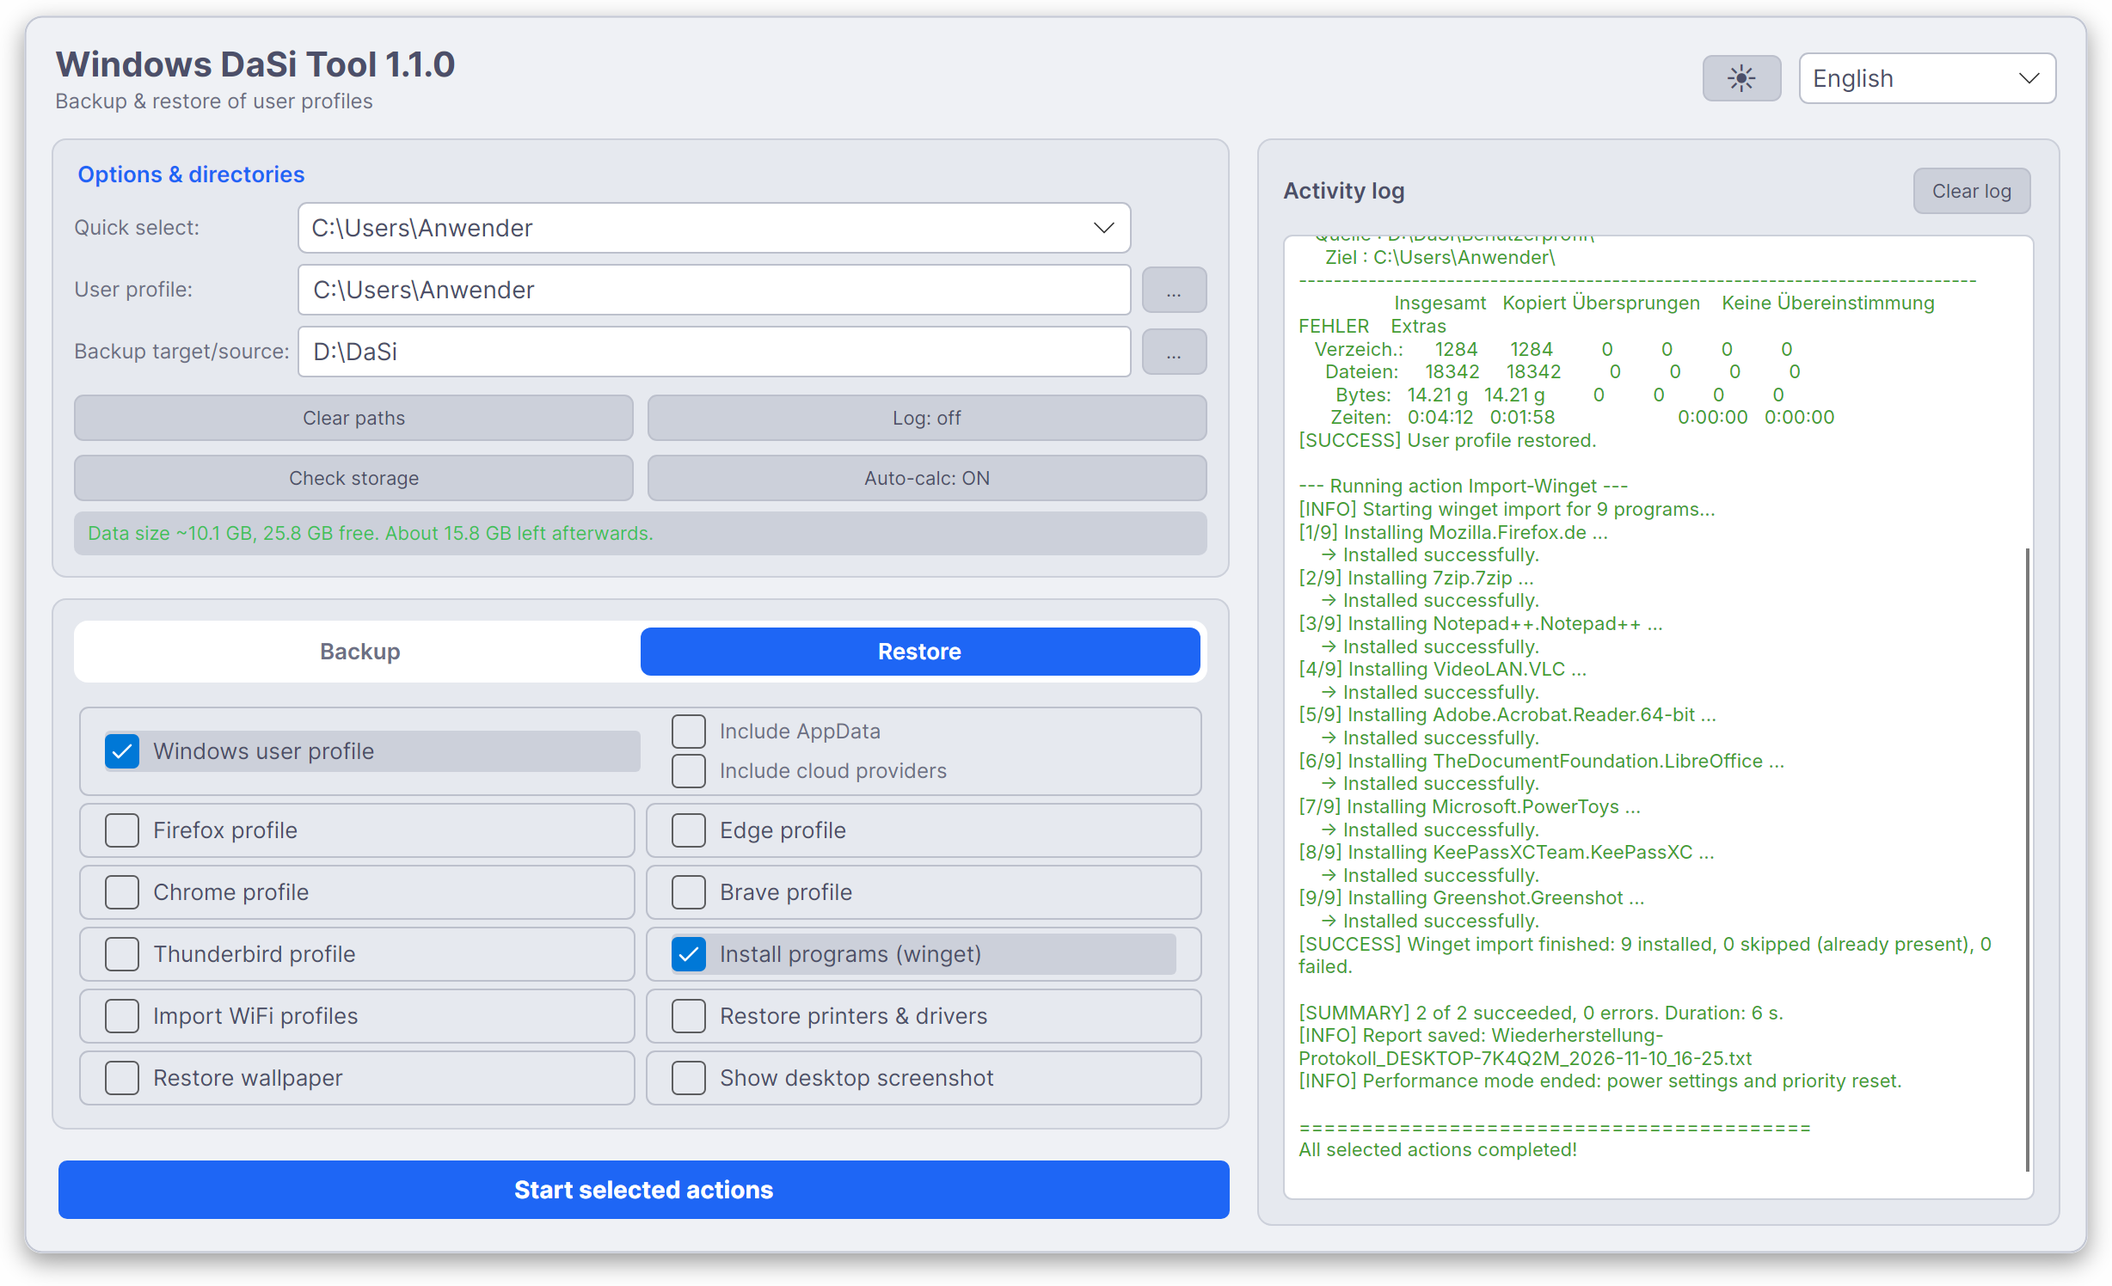
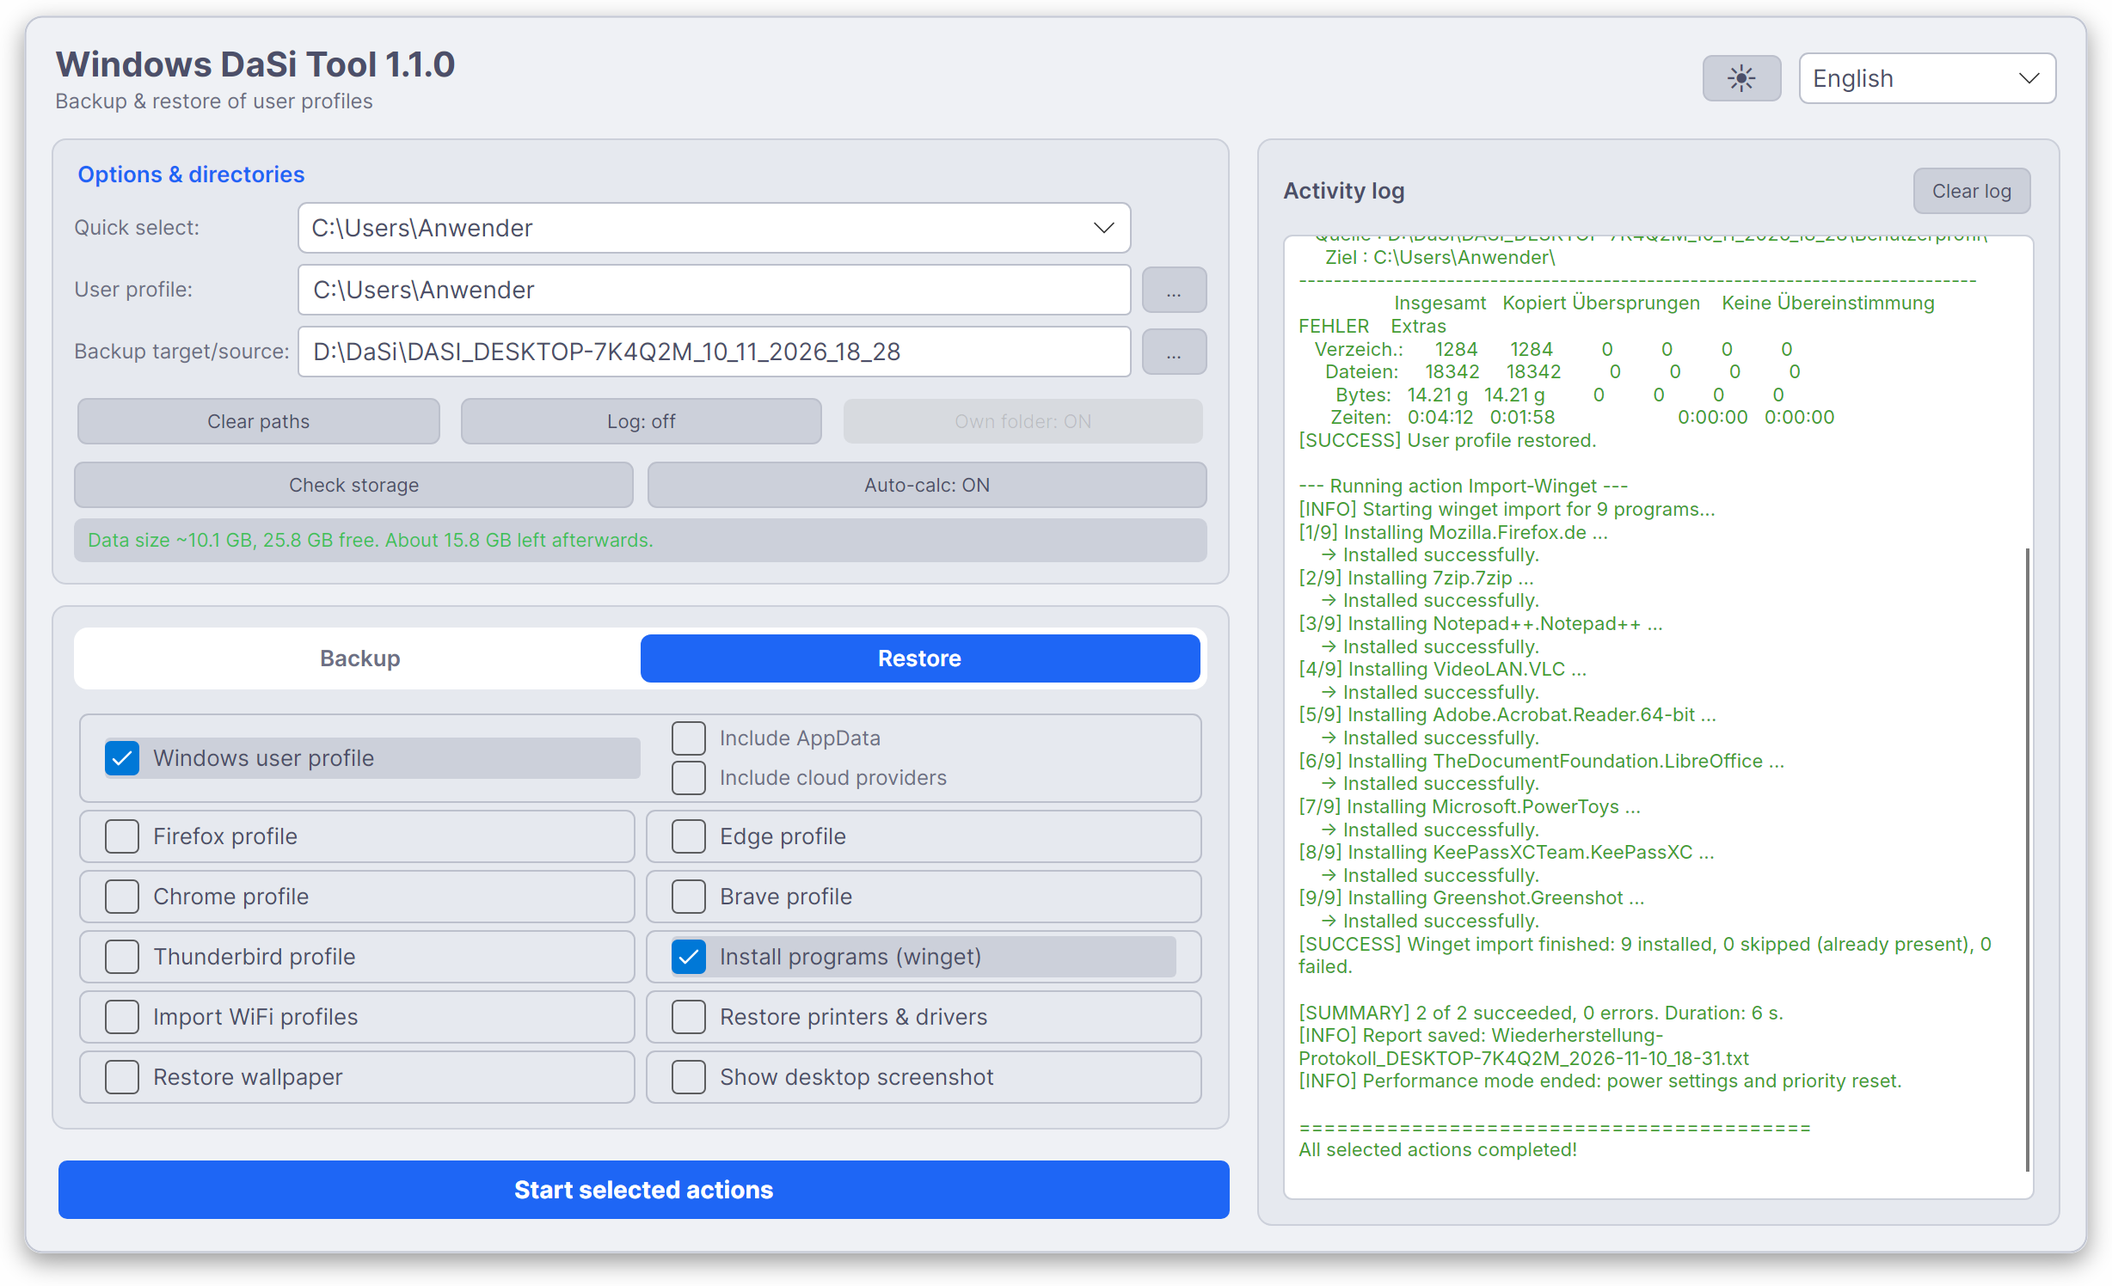
Neue Option: eigener Ordner je Sicherung
Als Ziel genuegt das Laufwerk: Aus "G:\" wird beim Start
"G:\DASI_<Rechnername>_TT_MM_JJJJ_HH_MM". Mehrere Rechner und Staende
liegen so nebeneinander, statt sich zu ueberschreiben - das Profil wird
mit /MIR gespiegelt, eine zweite Sicherung in denselben Ordner loeschte,
was die erste dort hinterlassen hat.

- Schalter "Eigener Ordner" (Vorgabe: an), mit Tooltip, der am echten
  Ziel zeigt, wo die naechste Sicherung landet. Die Schalterleiste hat
  oben jetzt drei gleich breite Knoepfe (ColumnSpacing), unten zwei -
  dieselbe Hoehe, kein Rollbalken.
- Angelegt wird erst beim Start, mit dessen Uhrzeit. Das Feld zeigt
  weiter das gewaehlte Ziel, ein zweiter Lauf legt daneben einen neuen
  Ordner an und verschachtelt nichts.
- Ist das Ziel schon ein DASI_-Ordner, wird nichts verschachtelt.
- Winget-Liste und Protokolldatei landen im DASI-Ordner; vorher nahmen
  beide das gewaehlte Ziel direkt.
- Beim Wiederherstellen ist der Schalter gesperrt: Dort wird eine
  vorhandene Sicherung gewaehlt.
- Die Regel steht pruefbar in BackupTarget (Name, Zeichen, Verschachtelung).

Geprueft: 108 Pruefungen (11 neue). GUI live: an/aus, Ziel schon DASI,
zweiter Lauf in derselben Sitzung, Wiederherstellen (18/18); bisherige
Funktionstests 33/33 und winget 33/33; 0 px Ueberlauf.

Claude-Session: https://claude.ai/code/session_0196PaXCKSmKiwGSNr3Nwqvz

diff --git a/ViewModels/MainWindowViewModel.cs b/ViewModels/MainWindowViewModel.cs
@@ -42,7 +42,11 @@ public partial class MainWindowViewModel : ObservableObject
 
     // Die Zusatzoptionen zum Benutzerprofil haengen ebenfalls daran und muessen
     // mitgesperrt werden, solange eine Aktion laeuft.
-    partial void OnUiEnabledChanged(bool value) => OnPropertyChanged(nameof(UserOptionsEnabled));
+    partial void OnUiEnabledChanged(bool value)
+    {
+        OnPropertyChanged(nameof(UserOptionsEnabled));
+        OnPropertyChanged(nameof(OwnFolderToggleEnabled));
+    }
 
     /// <summary>
     /// Laeuft gerade eine Aktion aus der Warteschlange? Bewusst getrennt von
@@ -127,6 +131,49 @@ public partial class MainWindowViewModel : ObservableObject
     [RelayCommand]
     private void ToggleAutoStorage() => AutoStorageCheck = !AutoStorageCheck;
 
+    // ---- Eigener Sicherungsordner (abschaltbar, Vorgabe: an) ----
+    // Beim Sichern entsteht unter dem gewaehlten Ziel ein eigener Ordner je
+    // Lauf: G:\ -> G:\DASI_<Rechner>_TT_MM_JJJJ_HH_MM. Beim Wiederherstellen
+    // wirkt der Schalter nicht - dort wird ja eine vorhandene Sicherung gewaehlt.
+    [ObservableProperty] private bool _ownBackupFolder = true;
+
+    public string OwnFolderLabel => OwnBackupFolder
+        ? Tr("Eigener Ordner: AN", "Own folder: ON")
+        : Tr("Eigener Ordner: AUS", "Own folder: OFF");
+
+    /// <summary>Zeigt am Beispiel, wo die naechste Sicherung landet.</summary>
+    public string OwnFolderTip
+    {
+        get
+        {
+            var basis = string.IsNullOrWhiteSpace(BackupPath) ? @"G:\" : BackupPath;
+            var beispiel = BackupTarget.Resolve(basis, true, Environment.MachineName, DateTime.Now);
+            return OwnBackupFolder
+                ? Tr($"Beim Sichern wird ein eigener Ordner angelegt, z. B.:\n{beispiel}\n\nAbschalten, um direkt in das gewählte Ziel zu sichern.",
+                     $"When backing up, a separate folder is created, e.g.:\n{beispiel}\n\nTurn off to back up directly into the chosen target.")
+                : Tr($"Gesichert wird direkt in das gewählte Ziel.\n\nEinschalten, um je Sicherung einen eigenen Ordner anzulegen, z. B.:\n{beispiel}",
+                     $"The backup goes directly into the chosen target.\n\nTurn on to create a separate folder per backup, e.g.:\n{beispiel}");
+        }
+    }
+
+    public bool OwnFolderToggleEnabled => UiEnabled && !IsRestoreMode;
+
+    partial void OnOwnBackupFolderChanged(bool value)
+    {
+        OnPropertyChanged(nameof(OwnFolderLabel));
+        OnPropertyChanged(nameof(OwnFolderTip));
+    }
+
+    [RelayCommand]
+    private void ToggleOwnFolder() => OwnBackupFolder = !OwnBackupFolder;
+
+    /// <summary>
+    /// Ziel des laufenden Vorgangs. Beim Sichern mit eigenem Ordner ist das
+    /// der neu angelegte DASI-Ordner, sonst das gewaehlte Ziel. Winget-Export
+    /// und Protokolldatei muessen dorthin - nicht ins gewaehlte Ziel darueber.
+    /// </summary>
+    private string _laufZiel = "";
+
     private System.Threading.CancellationTokenSource? _autoStorageCts;
 
     /// <summary>
@@ -160,6 +207,7 @@ public partial class MainWindowViewModel : ObservableObject
 
     partial void OnBackupPathChanged(string value)
     {
+        OnPropertyChanged(nameof(OwnFolderTip));
         // Freien Platz am Ziellaufwerk sofort anzeigen (leichtgewichtig).
         if (string.IsNullOrWhiteSpace(value))
         {
@@ -348,6 +396,7 @@ public partial class MainWindowViewModel : ObservableObject
         OnPropertyChanged(nameof(TgWallpaper));
         OnPropertyChanged(nameof(TgDesktopShot));
         OnPropertyChanged(nameof(ModeTitle));
+        OnPropertyChanged(nameof(OwnFolderToggleEnabled));
         ScheduleAutoStorageCheck();
     }
 
@@ -974,7 +1023,30 @@ public partial class MainWindowViewModel : ObservableObject
         // Die Zusatzoptionen gelten nur zusammen mit dem Benutzerprofil.
         _backup.IncludeAppData = SelUser && SelUserAppData;
         _backup.IncludeCloud = SelUser && SelUserCloud;
-        _backup.BackupPath = BackupPath;
+
+        // Eigener Ordner: erst hier anlegen, mit der Uhrzeit des Starts - nicht
+        // schon beim Waehlen des Ziels. Sonst truege der Ordner die Zeit, zu der
+        // irgendwann das Laufwerk gewaehlt wurde.
+        _laufZiel = IsRestoreMode
+            ? BackupPath
+            : BackupTarget.Resolve(BackupPath, OwnBackupFolder, Environment.MachineName, DateTime.Now);
+        if (!string.Equals(_laufZiel, BackupPath, StringComparison.OrdinalIgnoreCase))
+        {
+            try
+            {
+                Directory.CreateDirectory(_laufZiel);
+            }
+            catch (Exception ex)
+            {
+                await ShowInfo(Tr("Fehler", "Error"),
+                    Tr($"Der Sicherungsordner konnte nicht angelegt werden:\n{_laufZiel}\n\n{ex.Message}",
+                       $"The backup folder could not be created:\n{_laufZiel}\n\n{ex.Message}"));
+                return;
+            }
+            Log(Tr($"[INFO] Gesichert wird in einen eigenen Ordner: {_laufZiel}",
+                   $"[INFO] Backing up into a separate folder: {_laufZiel}"));
+        }
+        _backup.BackupPath = _laufZiel;
 
         UiEnabled = false;
         IsActionRunning = true;
@@ -1075,7 +1147,7 @@ public partial class MainWindowViewModel : ObservableObject
                     case "Backup-Chrome":      await _backup.BackupAppProfile("Chrome", @"AppData\Local\Google\Chrome\User Data", "chrome", _backup.ChromiumExcludes); break;
                     case "Backup-Brave":       await _backup.BackupAppProfile("Brave", @"AppData\Local\BraveSoftware\Brave-Browser\User Data", "brave", _backup.ChromiumExcludes); break;
                     case "Backup-Thunderbird": await _backup.BackupAppProfile("Thunderbird", @"AppData\Roaming\Thunderbird", "thunderbird"); break;
-                    case "Export-Winget":      await _winget.ExportAsync(BackupPath); break;
+                    case "Export-Winget":      await _winget.ExportAsync(_laufZiel); break;
                     case "Export-Wlan":        await _backup.ExportWlan(); break;
                     case "Export-Printer":     await _backup.ExportPrinters(); break;
                     case "Export-Wallpaper":   await _backup.ExportWallpaper(); break;
@@ -1146,7 +1218,7 @@ public partial class MainWindowViewModel : ObservableObject
         // Protokolldatei schreiben (nur wenn ein gueltiges Ziel existiert).
         try
         {
-            if (string.IsNullOrWhiteSpace(BackupPath) || !Directory.Exists(BackupPath)) return;
+            if (string.IsNullOrWhiteSpace(_laufZiel) || !Directory.Exists(_laufZiel)) return;
 
             var modeStr = restore ? Tr("Wiederherstellung", "Restore") : Tr("Sicherung", "Backup");
             // Computername in den Dateinamen aufnehmen (ungueltige Zeichen entfernen).
@@ -1154,7 +1226,7 @@ public partial class MainWindowViewModel : ObservableObject
             foreach (var ch in Path.GetInvalidFileNameChars())
                 pcName = pcName.Replace(ch, '_');
             var fileName = $"{(restore ? "Wiederherstellung" : "Sicherung")}-Protokoll_{pcName}_{start:yyyy-MM-dd_HH-mm}.txt";
-            var path = Path.Combine(BackupPath, fileName);
+            var path = Path.Combine(_laufZiel, fileName);
 
             var sb = new System.Text.StringBuilder();
             sb.AppendLine("Windows DaSi Tool - " + Tr("Protokoll", "Report"));
@@ -1164,7 +1236,7 @@ public partial class MainWindowViewModel : ObservableObject
             sb.AppendLine($"{Tr("Datum", "Date")}: {start:yyyy-MM-dd HH:mm:ss}");
             sb.AppendLine($"{Tr("Dauer", "Duration")}: {durStr}");
             sb.AppendLine($"{Tr("Benutzerprofil", "User profile")}: {SourcePath}");
-            sb.AppendLine($"{Tr("Backup-Ziel/-Quelle", "Backup target/source")}: {BackupPath}");
+            sb.AppendLine($"{Tr("Backup-Ziel/-Quelle", "Backup target/source")}: {_laufZiel}");
             sb.AppendLine($"{Tr("Version", "Version")}: {VersionString}");
             sb.AppendLine("----------------------------------------");
             sb.AppendLine($"{Tr("Ergebnis", "Result")}: {okCount}/{results.Count} {Tr("erfolgreich", "succeeded")}, {failCount} {Tr("Fehler", "errors")}");

diff --git a/Services/BackupTarget.cs b/Services/BackupTarget.cs
@@ -1,0 +1,60 @@
+using System;
+using System.Globalization;
+using System.IO;
+
+namespace WindowsDaSiTool.Services;
+
+/// <summary>
+/// Der eigene Sicherungsordner: Wer als Ziel nur "G:\" angibt, bekommt
+/// darunter einen Ordner je Sicherung - "G:\DASI_DESKTOP-7K4Q2M_10_11_2026_18_45".
+///
+/// So liegen mehrere Rechner und mehrere Staende sauber nebeneinander, statt
+/// sich im Wurzelverzeichnis gegenseitig zu ueberschreiben: Das Profil wird
+/// mit /MIR gespiegelt, eine zweite Sicherung in denselben Ordner loeschte
+/// alles, was der erste Rechner dort hinterlassen hat.
+///
+/// Ohne Abhaengigkeiten, damit sich die Regel pruefen laesst.
+/// </summary>
+public static class BackupTarget
+{
+    /// <summary>Anfang jedes Ordners, den das Tool selbst anlegt.</summary>
+    public const string Prefix = "DASI_";
+
+    /// <summary>
+    /// "DASI_&lt;Rechnername&gt;_TT_MM_JJJJ_HH_MM". Zeichen, die in einem
+    /// Ordnernamen nicht erlaubt sind, werden zu "_".
+    /// </summary>
+    public static string FolderName(string machineName, DateTime when)
+    {
+        var pc = string.IsNullOrWhiteSpace(machineName) ? "PC" : machineName.Trim();
+        foreach (var ch in Path.GetInvalidFileNameChars()) pc = pc.Replace(ch, '_');
+        // Zusaetzlich die unter Windows verbotenen Zeichen - Path liefert unter
+        // Linux nur '/' und '\0', die Regel soll aber ueberall gleich wirken.
+        foreach (var ch in "\\/:*?\"<>|") pc = pc.Replace(ch, '_');
+        return Prefix + pc + "_" + when.ToString("dd_MM_yyyy_HH_mm", CultureInfo.InvariantCulture);
+    }
+
+    /// <summary>
+    /// true, wenn der Ordner selbst schon ein DASI-Ordner ist. Dann wird nichts
+    /// verschachtelt: Wer "G:\DASI_PC_10_11_2026_18_45" waehlt, will genau dorthin.
+    /// </summary>
+    public static bool IsOwnFolder(string path)
+    {
+        if (string.IsNullOrWhiteSpace(path)) return false;
+        var name = path.TrimEnd('\\', '/');
+        var schnitt = name.LastIndexOfAny(new[] { '\\', '/' });
+        if (schnitt >= 0) name = name[(schnitt + 1)..];
+        return name.StartsWith(Prefix, StringComparison.OrdinalIgnoreCase);
+    }
+
+    /// <summary>
+    /// Das tatsaechliche Ziel einer Sicherung.
+    /// </summary>
+    /// <param name="basePath">Was der Benutzer gewaehlt hat, z. B. "G:\".</param>
+    /// <param name="enabled">Schalter "Eigener Ordner".</param>
+    public static string Resolve(string basePath, bool enabled, string machineName, DateTime when)
+    {
+        if (!enabled || string.IsNullOrWhiteSpace(basePath) || IsOwnFolder(basePath)) return basePath;
+        return Path.Combine(basePath, FolderName(machineName, when));
+    }
+}

diff --git a/tests/DaSiTests/Program.cs b/tests/DaSiTests/Program.cs
@@ -358,6 +358,35 @@ internal static class Program
         // ================================================================
         // Desktop-Screenshot: PNG schreiben, Profil vergleichen, Schwarzbild
         // ================================================================
+        Console.WriteLine("\n== Eigener Sicherungsordner ==");
+        var zeitpunkt = new DateTime(2026, 11, 10, 8, 5, 0);
+        Check("Name: DASI_<Rechner>_TT_MM_JJJJ_HH_MM, mit fuehrenden Nullen",
+            BackupTarget.FolderName("DESKTOP-7K4Q2M", zeitpunkt) == "DASI_DESKTOP-7K4Q2M_10_11_2026_08_05",
+            BackupTarget.FolderName("DESKTOP-7K4Q2M", zeitpunkt));
+        Check("unzulaessige Zeichen im Rechnernamen werden zu _",
+            BackupTarget.FolderName("PC:1/2*?", zeitpunkt) == "DASI_PC_1_2___10_11_2026_08_05",
+            BackupTarget.FolderName("PC:1/2*?", zeitpunkt));
+        Check("ohne Rechnernamen: PC",
+            BackupTarget.FolderName("  ", zeitpunkt) == "DASI_PC_10_11_2026_08_05");
+        Check("24-Stunden-Format (18 Uhr, nicht 6)",
+            BackupTarget.FolderName("PC", new DateTime(2026, 11, 10, 18, 45, 0)).EndsWith("_10_11_2026_18_45"));
+
+        var laufwerk = Path.Combine(root, "G");
+        Check("eingeschaltet: Ordner unter dem gewaehlten Ziel",
+            BackupTarget.Resolve(laufwerk, true, "PC", zeitpunkt) == Path.Combine(laufwerk, "DASI_PC_10_11_2026_08_05"));
+        Check("ausgeschaltet: direkt ins gewaehlte Ziel",
+            BackupTarget.Resolve(laufwerk, false, "PC", zeitpunkt) == laufwerk);
+        var schonDasi = Path.Combine(laufwerk, "DASI_ALTPC_01_10_2026_12_00");
+        Check("ist das Ziel schon ein DASI-Ordner, wird nichts verschachtelt",
+            BackupTarget.Resolve(schonDasi, true, "PC", zeitpunkt) == schonDasi);
+        Check("auch mit abschliessendem Trennzeichen und Kleinschreibung",
+            BackupTarget.IsOwnFolder(@"G:\dasi_pc_10_11_2026_08_05\") && BackupTarget.IsOwnFolder("/mnt/g/DASI_PC_x/"));
+        Check("Laufwerkswurzel ist kein DASI-Ordner",
+            !BackupTarget.IsOwnFolder(@"G:\") && !BackupTarget.IsOwnFolder(""));
+        Check("ein Ordner, der DASI nur enthaelt, zaehlt nicht",
+            !BackupTarget.IsOwnFolder(@"G:\Backup_DASI_alt"));
+        Check("leeres Ziel bleibt leer", BackupTarget.Resolve("", true, "PC", zeitpunkt) == "");
+
         Console.WriteLine("\n== PNG schreiben ==");
         Check("CRC-32 stimmt mit dem Normwert ueberein (\"123456789\" -> CBF43926)",
             PngWriter.Crc32("123456789"u8) == 0xCBF43926u, PngWriter.Crc32("123456789"u8).ToString("X8"));

diff --git a/README.md b/README.md
@@ -155,6 +155,22 @@ Beim **Wiederherstellen** wird gezielt ausgewählt, was installiert werden soll:
 <img src="docs/images/winget-auswahl.png" alt="Auswahldialog für die Winget-Wiederherstellung" width="460">
 </div>
 
+### Ein eigener Ordner je Sicherung
+
+Als Ziel genügt das Laufwerk: Wer `G:\` wählt, bekommt für jede Sicherung einen
+eigenen Ordner mit Rechnername und Zeitpunkt —
+
+```
+G:\DASI_DESKTOP-7K4Q2M_10_11_2026_18_45
+```
+
+So liegen mehrere Rechner und mehrere Stände sauber nebeneinander, statt sich im
+Wurzelverzeichnis gegenseitig zu überschreiben. Angelegt wird der Ordner erst beim
+Start, mit dessen Uhrzeit. Der Schalter **Eigener Ordner** (Vorgabe: an) lässt sich
+abschalten; dann geht die Sicherung direkt in das gewählte Ziel. Ist das gewählte Ziel
+selbst schon ein `DASI_…`-Ordner, wird nichts verschachtelt. Beim **Wiederherstellen**
+wirkt der Schalter nicht — dort wird der gewünschte `DASI_…`-Ordner als Quelle gewählt.
+
 ### Schnellauswahl der Benutzerprofile
 
 Alle echten Profile unter `C:\Users` stehen im Dropdown bereit. System- und
@@ -255,7 +271,8 @@ auf der Kommandozeile — steht in **[docs/VEROEFFENTLICHEN.md](docs/VEROEFFENTL
 1. Aktuelle `WindowsDaSiTool.exe` aus dem [Releases-Bereich](https://github.com/Tinnitus97/Windows.DaSi.Tool/releases) herunterladen.
 2. EXE starten und die UAC-Abfrage mit **Ja** bestätigen.
 3. Über die **Schnellauswahl** das Benutzerprofil wählen (oder per `...` manuell suchen).
-4. Das **Backup-Ziel** festlegen — ein Ordner auf einem NTFS-Laufwerk.
+4. Das **Backup-Ziel** festlegen — ein Ordner auf einem NTFS-Laufwerk. Mit *Eigener
+   Ordner: AN* genügt das Laufwerk (`G:\`); zum Wiederherstellen den `DASI_…`-Ordner wählen.
 5. Modus **Sichern** oder **Wiederherstellen** wählen und die gewünschten Punkte ankreuzen.
    *AppData* und *Cloud-Anbieter* nur bei Bedarf dazunehmen.
 6. Auf die **Speicherzeile** achten: Grün heißt, der Platz reicht.

diff --git a/CHANGELOG.md b/CHANGELOG.md
@@ -18,6 +18,12 @@ die Versionierung folgt [Semantic Versioning](https://semver.org/lang/de/).
   sich die Symbole von Hand wieder anordnen lassen. Ist ein anderer Benutzer
   angemeldet als der des gesicherten Profils, wird kein Foto gemacht — es zeigte
   den falschen Desktop.
+- **Eigener Ordner je Sicherung** (abschaltbar, Vorgabe: an). Als Ziel genügt das
+  Laufwerk: Aus `G:\` wird beim Start `G:\DASI_<Rechnername>_TT_MM_JJJJ_HH_MM`.
+  Mehrere Rechner und Stände liegen so nebeneinander, statt sich zu überschreiben.
+  Profil, winget-Liste, Desktop-Foto und Protokolldatei landen alle in diesem
+  Ordner. Ist das Ziel schon ein `DASI_…`-Ordner, wird nichts verschachtelt; beim
+  Wiederherstellen ist der Schalter gesperrt.
 
 ### Geändert
 
